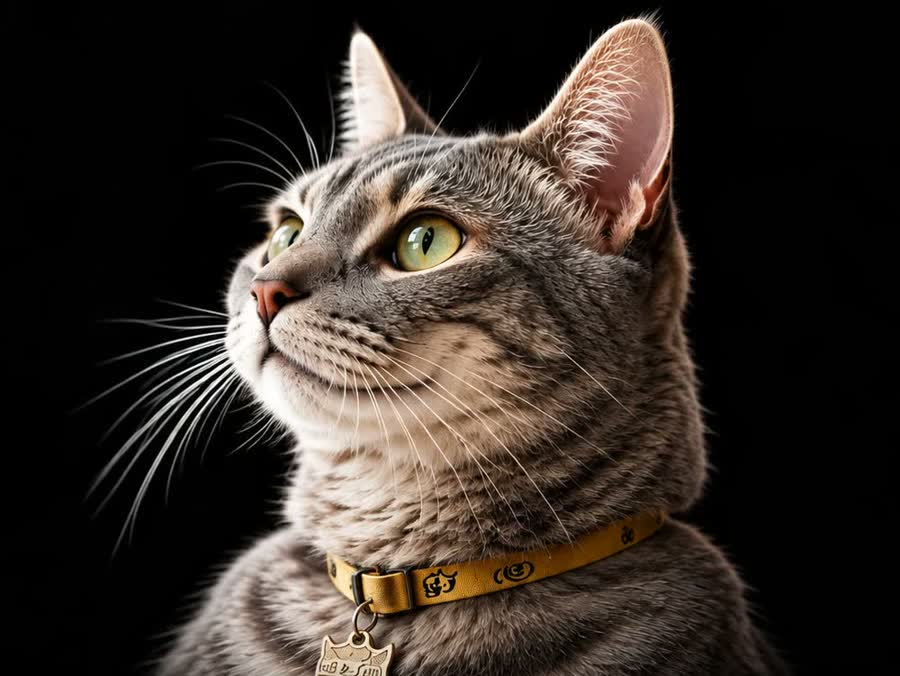
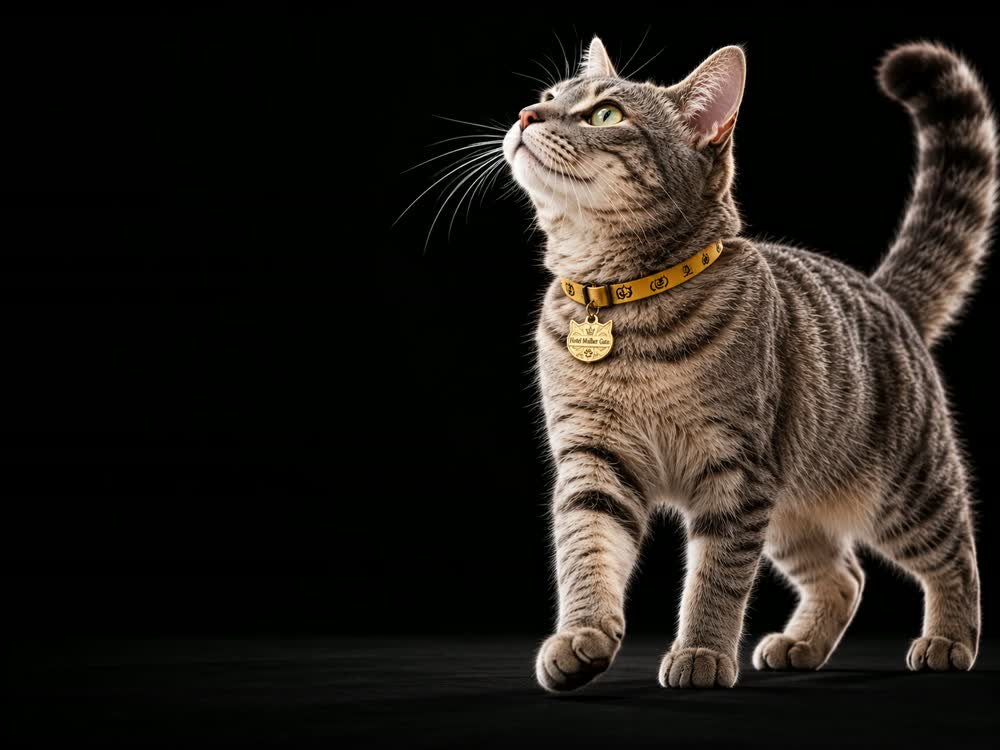
Fotos do segundo lote: og, galeria e CTA final

diff --git a/hotel-mulher-gato-v3sn/index.html b/hotel-mulher-gato-v3sn/index.html
@@ -13,13 +13,13 @@
 <meta property="og:locale" content="pt_BR">
 <meta property="og:title" content="Hotel Mulher Gato | Hotel exclusivo para gatos em Porto Alegre">
 <meta property="og:description" content="Nota 4,9 no Google. Fotos e vídeos do seu gato no WhatsApp. Reserve pelo WhatsApp.">
-<meta property="og:image" content="https://bergamotion77.github.io/sites/hotel-mulher-gato-v3sn/img/hero-desktop.jpg">
+<meta property="og:image" content="https://bergamotion77.github.io/sites/hotel-mulher-gato-v3sn/img/og.jpg">
 <link rel="preload" as="image" href="img/hero-mobile.jpg" media="(max-width:700px)" fetchpriority="high"><link rel="preload" as="image" href="img/hero-desktop.jpg" media="(min-width:701px)" fetchpriority="high">
 <link rel="preconnect" href="https://fonts.googleapis.com">
 <link rel="preconnect" href="https://fonts.gstatic.com" crossorigin>
 <link rel="stylesheet" href="https://fonts.googleapis.com/css2?family=Playfair+Display:ital,wght@0,400;0,500;0,600;1,400;1,500;1,600&family=Fira+Sans+Condensed:wght@400;500;600&display=swap">
 <script type="application/ld+json">
-{"@context":"https://schema.org","@type":"LocalBusiness","name":"Hotel Mulher Gato","description":"Hotel exclusivo para gatos em Porto Alegre","telephone":"+55 51 99284-3557","priceRange":"R$ 70 por dia","image":"https://bergamotion77.github.io/sites/hotel-mulher-gato-v3sn/img/hero-desktop.jpg","address":{"@type":"PostalAddress","addressLocality":"Porto Alegre","addressRegion":"RS","addressCountry":"BR"},"aggregateRating":{"@type":"AggregateRating","ratingValue":"4.9","reviewCount":"74"},"sameAs":["https://www.instagram.com/vivi_mulher_gato/","https://www.facebook.com/HotelMulherGato/"]}
+{"@context":"https://schema.org","@type":"LocalBusiness","name":"Hotel Mulher Gato","description":"Hotel exclusivo para gatos em Porto Alegre","telephone":"+55 51 99284-3557","priceRange":"R$ 70 por dia","image":"https://bergamotion77.github.io/sites/hotel-mulher-gato-v3sn/img/og.jpg","address":{"@type":"PostalAddress","addressLocality":"Porto Alegre","addressRegion":"RS","addressCountry":"BR"},"aggregateRating":{"@type":"AggregateRating","ratingValue":"4.9","reviewCount":"74"},"sameAs":["https://www.instagram.com/vivi_mulher_gato/","https://www.facebook.com/HotelMulherGato/"]}
 </script>
 <style>
 :root{--bg:#0d1012;--bg2:#13181b;--card:#171d21;--line:#2a3238;--ivory:#f4efe6;--mut:#aeb6b8;--gold:#c9a96e;--gold2:#e2c894;--teal:#4a9bb5;--wa:#25c26a;--on-wa:#062412;
@@ -285,7 +285,7 @@ footer.site{font-size:1.1rem}
       <div class="gallery" style="margin-top:34px">
         <figure><img src="img/galeria-coleira.jpg" alt="Detalhe da coleira dourada com medalha do Hotel Mulher Gato" width="1448" height="1086"><figcaption>Elegância</figcaption></figure>
         <figure><img src="img/galeria-descanso.jpg" alt="Gato cinza descansando sobre manta preta" width="1448" height="1086"><figcaption>Postura</figcaption></figure>
-        <figure><img src="img/galeria-presenca.jpg" alt="Gato cinza olhando para o alto" width="1000" height="750"><figcaption>Presença</figcaption></figure>
+        <figure><img src="img/galeria-presenca.jpg" alt="Gato cinza caminhando e olhando para o alto" width="1000" height="750"><figcaption>Presença</figcaption></figure>
       </div>
     </div>
   </section>
@@ -431,7 +431,7 @@ footer.site{font-size:1.1rem}
   </section>
 
   <section class="final">
-    <img class="bg" src="img/hero-desktop.jpg" alt="" width="1672" height="941" style="object-position:75% 40%">
+    <img class="bg" src="img/cta-final.jpg" alt="" width="1942" height="809" style="object-position:78% 40%">
     <div class="wrap">
       <h2>Viaje tranquilo. <span class="gold">Seu gato está em boas patas.</span></h2>
       <p>Peça agora o orçamento e receba a resposta da Vivi no WhatsApp.</p>
